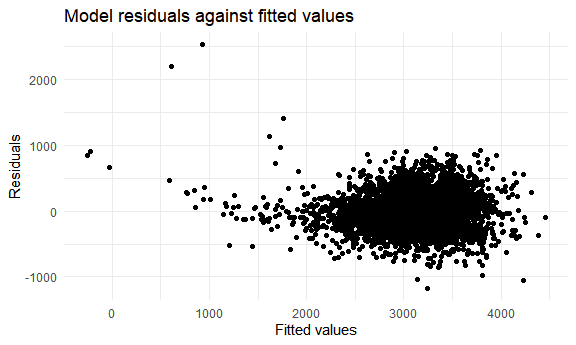
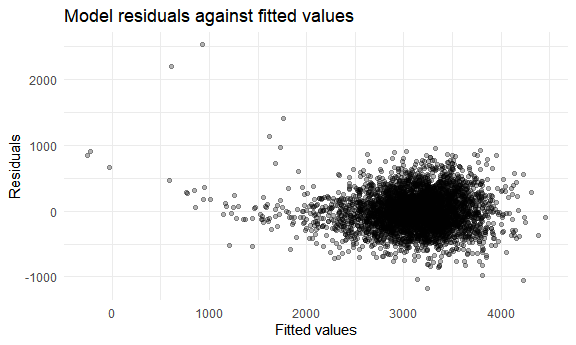
finished

diff --git a/p8105_hw6_ml4701.md b/p8105_hw6_ml4701.md
@@ -76,6 +76,34 @@ values was shown.
 ``` r
 fit = lm(bwt ~ bhead + blength+ gaweeks+ delwt+ babysex, data = birthweight_df)
 
+summary(fit)
+```
+
+    ## 
+    ## Call:
+    ## lm(formula = bwt ~ bhead + blength + gaweeks + delwt + babysex, 
+    ##     data = birthweight_df)
+    ## 
+    ## Residuals:
+    ##      Min       1Q   Median       3Q      Max 
+    ## -1172.25  -183.46   -11.24   175.57  2529.39 
+    ## 
+    ## Coefficients:
+    ##                 Estimate Std. Error t value Pr(>|t|)    
+    ## (Intercept)   -6314.4740    96.8895 -65.172  < 2e-16 ***
+    ## bhead           137.7524     3.5374  38.942  < 2e-16 ***
+    ## blength          79.2680     2.0713  38.270  < 2e-16 ***
+    ## gaweeks          13.6758     1.4960   9.142  < 2e-16 ***
+    ## delwt             2.0272     0.1992  10.175  < 2e-16 ***
+    ## babysexfemale    31.8168     8.7382   3.641 0.000275 ***
+    ## ---
+    ## Signif. codes:  0 '***' 0.001 '**' 0.01 '*' 0.05 '.' 0.1 ' ' 1
+    ## 
+    ## Residual standard error: 282.4 on 4336 degrees of freedom
+    ## Multiple R-squared:  0.6964, Adjusted R-squared:  0.696 
+    ## F-statistic:  1989 on 5 and 4336 DF,  p-value: < 2.2e-16
+
+``` r
 fit %>% 
   broom::tidy() %>% 
   mutate(term = str_replace(term,"babysex","sex_")) %>% 
@@ -97,7 +125,7 @@ birthweight_df %>%
   modelr::add_predictions(fit) %>% 
   modelr::add_residuals(fit) %>% 
   ggplot(aes(x = pred, y = resid))+
-  geom_point()+
+  geom_point(alpha = .3)+
   labs(
     title = "Model residuals against fitted values",
     x = "Fitted values", 
@@ -119,17 +147,17 @@ We define:
 
 `model 1: bwt ~ blength + gaweeks`,
 
-`model 2: bwt ~ bhead + blength+ babysex + bhead*blength + bhead* babysex +\n blength* babysex + bhead * blength * babysex`
+`model 2: bwt ~ bhead + blength + babysex + bhead * blength + bhead * babysex + blength * babysex + bhead * blength * babysex`
 
 And the previous model as
 
-`model 0: bwt ~ bhead + blength+ gaweeks+ delwt+ babysex`
+`model 0: bwt ~ bhead + blength + gaweeks + delwt + babysex`
 
 100 pairs of cross-validation sets were generated. RMSE for each test
 set were calculated and reflected in the boxplots for each model.
 
 ``` r
-set.seed(1)
+set.seed(1234)
 
 cv_df = crossv_mc(birthweight_df,100)
 
@@ -167,9 +195,9 @@ cv_df %>%
 
 | model | mean\_rmse |
 |:------|-----------:|
-| mod0  |   282.5508 |
-| mod1  |   332.2287 |
-| mod2  |   288.6030 |
+| mod0  |   283.2253 |
+| mod1  |   335.4731 |
+| mod2  |   289.6828 |
 
 ``` r
 cv_df %>% 
@@ -184,6 +212,139 @@ cv_df %>%
 <img src="p8105_hw6_ml4701_files/figure-gfm/unnamed-chunk-4-1.png" width="90%" />
 
 From the table summary of rmse of each model and the boxplot, we can see
-`model 0` has the smallest average RMSE of `282.5508`, while `model 2`
-is similar but a bit larger. `model 3` has the largest RMSE as
-`332.2287`. This shows that `model 1` has the best prediction on `bwt`.
+`model 0` has the smallest average RMSE of `283.2253`, while `model 2`
+is similar but a bit larger. `model 1` has the largest RMSE as
+`335.4731`. This shows that `model 0` has the best prediction on `bwt`.
+
+## Problem 2
+
+Load weather data
+
+``` r
+weather_df = 
+  rnoaa::meteo_pull_monitors(
+    c("USW00094728"),
+    var = c("PRCP", "TMIN", "TMAX"), 
+    date_min = "2017-01-01",
+    date_max = "2017-12-31") %>%
+  mutate(
+    name = recode(id, USW00094728 = "CentralPark_NY"),
+    tmin = tmin / 10,
+    tmax = tmax / 10) %>%
+  select(name, id, everything())
+```
+
+    ## Registered S3 method overwritten by 'hoardr':
+    ##   method           from
+    ##   print.cache_info httr
+
+    ## using cached file: C:\Users\asus\AppData\Local/Cache/R/noaa_ghcnd/USW00094728.dly
+
+    ## date created (size, mb): 2021-10-12 10:27:32 (7.62)
+
+    ## file min/max dates: 1869-01-01 / 2021-10-31
+
+5000 bootstrap were created for models `lm(tmax ~ tmin)` . For each
+bootstrap sample, estimates of *r̂*<sup>2</sup> and
+*l**o**g*(*β̂*<sub>0</sub> \* *β̂*<sub>1</sub>) are calculated.
+
+``` r
+set.seed(1234)
+nested_bootstrap = weather_df %>% 
+  modelr::bootstrap(n = 5000)%>% 
+  mutate(
+    models = map(strap, ~lm(tmax ~ tmin, data = .x) ),
+    results = map(models, broom::tidy),
+    glance = map(models, broom::glance)) %>% 
+  select(-strap, -models) 
+
+logb0b1_5000 = nested_bootstrap %>% 
+  unnest(results) %>% 
+  group_by(.id) %>% 
+  summarize(
+    logb0b1 = log(prod(estimate)))
+
+r.squared_5000 = nested_bootstrap %>% 
+  unnest(glance) %>% 
+  group_by(.id) %>% 
+  summarize(
+    r.squared = r.squared)
+
+left_join(logb0b1_5000,r.squared_5000) 
+```
+
+    ## Joining, by = ".id"
+
+    ## # A tibble: 5,000 x 3
+    ##    .id   logb0b1 r.squared
+    ##    <chr>   <dbl>     <dbl>
+    ##  1 0001     2.06     0.895
+    ##  2 0002     2.02     0.901
+    ##  3 0003     2.04     0.906
+    ##  4 0004     1.99     0.923
+    ##  5 0005     2.00     0.894
+    ##  6 0006     1.99     0.924
+    ##  7 0007     1.99     0.914
+    ##  8 0008     2.04     0.913
+    ##  9 0009     1.98     0.935
+    ## 10 0010     2.02     0.921
+    ## # ... with 4,990 more rows
+
+The following plot shows distributions of estimates of *r̂*<sup>2</sup>
+and *l**o**g*(*β̂*<sub>0</sub> \* *β̂*<sub>1</sub>). We can see both
+estimates follow distributions close to narmol, with mean value around
+0.91 and 2.01, respectively.
+
+``` r
+logb0b1_5000 %>% 
+  ggplot(aes(x = logb0b1))+
+  geom_density()+
+  labs(
+    title = "Distribution of estimates of log(b0*b1)",
+    x = "log(b0*b1)"
+  )
+```
+
+<img src="p8105_hw6_ml4701_files/figure-gfm/unnamed-chunk-7-1.png" width="90%" />
+
+``` r
+r.squared_5000 %>% 
+  ggplot(aes(x = r.squared))+
+  geom_density()+
+  labs(
+    title = "Distribution of estimates of R-square", 
+  ) 
+```
+
+<img src="p8105_hw6_ml4701_files/figure-gfm/unnamed-chunk-7-2.png" width="90%" />
+
+``` r
+logb0b1_5000 %>% 
+  summarize(
+    ci_lower = quantile(logb0b1, 0.025), 
+    ci_upper = quantile(logb0b1, 0.975))
+```
+
+    ## # A tibble: 1 x 2
+    ##   ci_lower ci_upper
+    ##      <dbl>    <dbl>
+    ## 1     1.97     2.06
+
+``` r
+r.squared_5000 %>% 
+  summarize(
+    ci_lower = quantile(r.squared, 0.025), 
+    ci_upper = quantile(r.squared, 0.975))
+```
+
+    ## # A tibble: 1 x 2
+    ##   ci_lower ci_upper
+    ##      <dbl>    <dbl>
+    ## 1    0.894    0.928
+
+The 2.5% and 97.5% quantiles were calculated using the 5000 bootstrap
+estimates, and the 95% confidence interval for the two quantities are:
+
+95% CI for *r̂*<sup>2</sup>: \[0.894, 0.928\]
+
+95% CI for *l**o**g*(*β̂*<sub>0</sub> \* *β̂*<sub>1</sub>): \[1.97, 2.06\]
